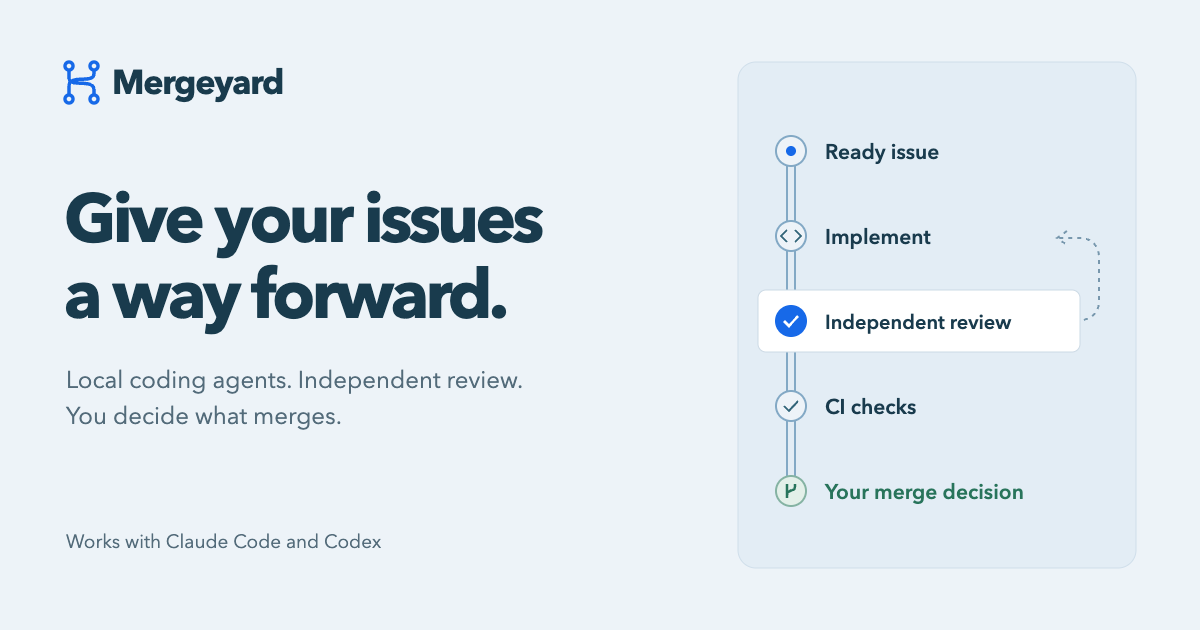
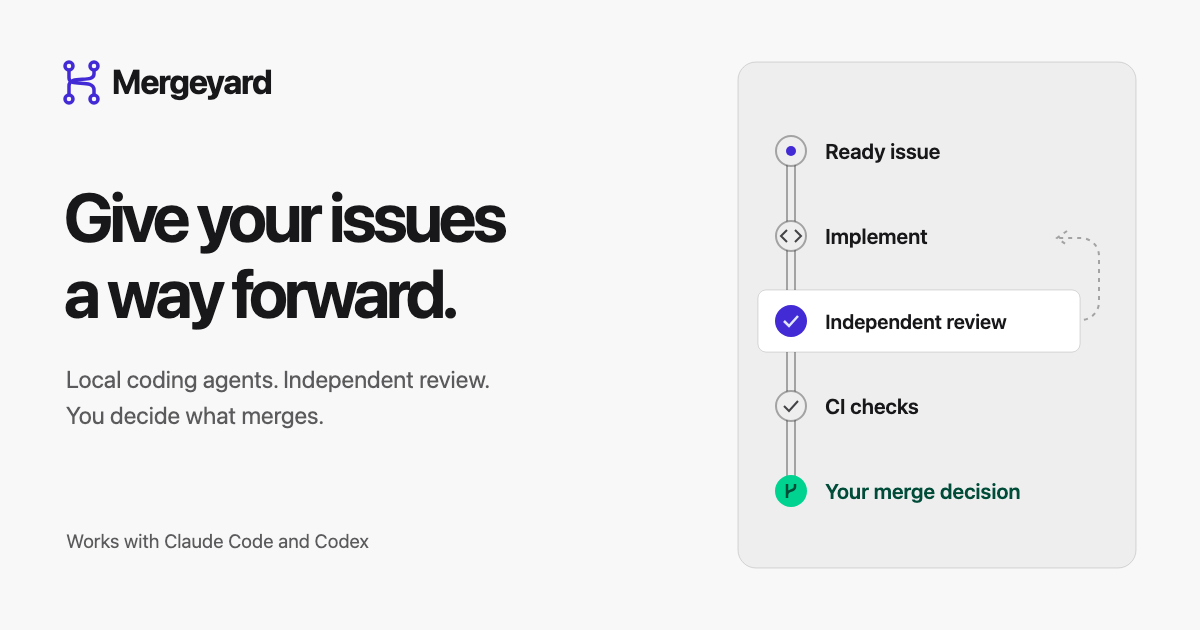
Match the website to the dashboard's daisyUI theme (#222) (#255)
* Match the website to the dashboard's daisyUI theme (#222)

The dashboard asset build now writes site/theme.css (the stock daisyUI light
and dark theme variables, switched by prefers-color-scheme) and the site's
copy of the theme-following favicon. The site's hand-written palette is
replaced by those variables, it uses the system font stacks, and the social
preview is redrawn in the light theme. CI's asset drift check covers the
generated site files.

* Drop a repeated docs note and a history-only test check (#222)

---------

diff --git a/site/style.css b/site/style.css
@@ -1,15 +1,12 @@
 :root {
-  color-scheme: light;
-  --ink: #193b4d;
-  --blue: #1769e8;
-  --paper: #edf3f8;
-  --white: #ffffff;
-  --muted: #536b7a;
-  --green: #28745b;
-  --line: #cddce7;
-  font-family: "Avenir Next", Avenir, "Segoe UI", sans-serif;
-  color: var(--ink);
-  background: var(--paper);
+  /* Colors come from the stock daisyUI themes in theme.css, generated by the
+     dashboard build; only mixes of those variables are derived here. */
+  --text-muted: color-mix(in oklab, var(--color-base-content) 70%, transparent);
+  --rule: color-mix(in oklab, var(--color-base-content) 15%, transparent);
+  --track: color-mix(in oklab, var(--color-base-content) 35%, transparent);
+  font-family: ui-sans-serif, system-ui, sans-serif, "Apple Color Emoji", "Segoe UI Emoji", "Segoe UI Symbol", "Noto Color Emoji";
+  color: var(--color-base-content);
+  background: var(--color-base-200);
   font-synthesis: none;
   line-height: 1.6;
 }
@@ -20,103 +17,103 @@ a { color: inherit; text-underline-offset: .22em; }
 button { font: inherit; }
 svg { display: block; fill: none; stroke: currentColor; stroke-width: 1.7; stroke-linecap: round; stroke-linejoin: round; }
 a, button { -webkit-tap-highlight-color: transparent; }
-:focus-visible { outline: 3px solid var(--blue); outline-offset: 5px; }
-::selection { background: #c9defd; color: var(--ink); }
+:focus-visible { outline: 3px solid var(--color-primary); outline-offset: 5px; }
+::selection { background: color-mix(in oklab, var(--color-primary) 25%, transparent); color: inherit; }
 h1, h2, h3, p { margin: 0; }
 h1, h2, h3 { line-height: 1.12; }
-code { font-family: "SFMono-Regular", Consolas, "Liberation Mono", monospace; font-size: .85em; overflow-wrap: anywhere; }
+code { font-family: ui-monospace, SFMono-Regular, Menlo, Monaco, Consolas, "Liberation Mono", "Courier New", monospace; font-size: .85em; overflow-wrap: anywhere; }
 .wrap { width: min(1264px, calc(100% - 112px)); margin-inline: auto; }
-.skip-link { position: absolute; top: -100px; left: 1rem; padding: .7rem 1rem; background: var(--white); z-index: 10; }
+.skip-link { position: absolute; top: -100px; left: 1rem; padding: .7rem 1rem; background: var(--color-base-100); z-index: 10; }
 .skip-link:focus { top: 1rem; }
 .masthead { display: flex; justify-content: space-between; align-items: center; gap: 24px; padding-block: 30px; }
 .wordmark { display: inline-flex; align-items: center; gap: 10px; font-size: 24px; font-weight: 750; letter-spacing: -1px; text-decoration: none; }
-.wordmark svg { width: 36px; height: 36px; color: var(--blue); stroke-width: 2.4; }
-.wordmark svg circle { fill: var(--paper); }
+.wordmark svg { width: 36px; height: 36px; color: var(--color-primary); stroke-width: 2.4; }
+.wordmark svg circle { fill: var(--color-base-200); }
 .masthead nav { display: flex; align-items: center; gap: 34px; font-size: 14px; font-weight: 600; }
 .masthead nav a { text-decoration: none; }
-.masthead nav a:hover, .text-link:hover, .footer a:hover { color: var(--blue); }
+.masthead nav a:hover, .text-link:hover, .footer a:hover { color: var(--color-primary); }
 .github-link { display: inline-flex; align-items: center; gap: 8px; }
 .github-link svg { width: 17px; height: 17px; }
 .hero { display: grid; grid-template-columns: 1.13fr 1fr; align-items: center; gap: 54px; padding-block: 70px 100px; }
-.intro { display: flex; align-items: center; gap: 9px; margin-bottom: 25px; color: var(--muted); font-size: 14px; font-weight: 550; }
-.local-dot { width: 7px; height: 7px; background: var(--green); border-radius: 50%; }
+.intro { display: flex; align-items: center; gap: 9px; margin-bottom: 25px; color: var(--text-muted); font-size: 14px; font-weight: 550; }
+.local-dot { width: 7px; height: 7px; background: var(--color-success); border-radius: 50%; }
 h1 { font-size: clamp(48px, 5.65vw, 82px); font-weight: 650; letter-spacing: -.065em; line-height: 1.04; }
-.hero-description { max-width: 42ch; margin-top: 28px; font-size: 18px; color: var(--muted); line-height: 1.7; }
+.hero-description { max-width: 42ch; margin-top: 28px; font-size: 18px; color: var(--text-muted); line-height: 1.7; }
 .hero-actions { display: flex; flex-wrap: wrap; align-items: center; gap: 28px; margin-top: 32px; }
 .button { display: inline-flex; justify-content: center; align-items: center; gap: 22px; min-height: 48px; padding: 12px 20px; border-radius: 6px; font-size: 15px; font-weight: 650; text-decoration: none; }
-.primary { color: var(--white); background: var(--blue); }
-.primary:hover { background: #0d54bd; }
+.primary { color: var(--color-primary-content); background: var(--color-primary); }
+.primary:hover { background: color-mix(in oklab, var(--color-primary) 88%, var(--color-base-content)); }
 .button svg { width: 18px; height: 18px; }
 .text-link { font-size: 14px; font-weight: 650; }
-.compatibility { margin-top: 35px; font-size: 12px; line-height: 1.9; color: var(--muted); }
-.compatibility strong { font-weight: 600; color: var(--ink); }
-.run-map { position: relative; background: #e3edf5; border: 1px solid #cfdeea; border-radius: 14px; padding: 24px 24px 18px; box-shadow: 0 18px 40px -32px #193b4d66; }
+.compatibility { margin-top: 35px; font-size: 12px; line-height: 1.9; color: var(--text-muted); }
+.compatibility strong { font-weight: 600; color: var(--color-base-content); }
+.run-map { position: relative; background: var(--color-base-300); border: 1px solid var(--rule); border-radius: 14px; padding: 24px 24px 18px; box-shadow: 0 18px 40px -32px color-mix(in oklab, var(--color-base-content) 40%, transparent); }
 .map-heading { display: flex; align-items: baseline; justify-content: space-between; gap: 12px; padding-bottom: 20px; }
 .map-heading h2 { font-size: 14px; font-weight: 650; letter-spacing: -.02em; }
-.map-heading > span { font-size: 10px; color: var(--muted); }
-.map-canvas { position: relative; background-image: radial-gradient(#b8cddd 1px, transparent 1px); background-size: 16px 16px; background-position: 8px 4px; }
-.track { position: absolute; left: 22px; top: 34px; bottom: 34px; width: 7px; border-inline: 2px solid #83a9c5; }
-.return-track { position: absolute; right: 10px; top: 71px; width: 90px; height: 160px; color: #7797ad; stroke-width: 1.7; }
+.map-heading > span { font-size: 10px; color: var(--text-muted); }
+.map-canvas { position: relative; background-image: radial-gradient(color-mix(in oklab, var(--color-base-content) 20%, transparent) 1px, transparent 1px); background-size: 16px 16px; background-position: 8px 4px; }
+.track { position: absolute; left: 22px; top: 34px; bottom: 34px; width: 7px; border-inline: 2px solid var(--track); }
+.return-track { position: absolute; right: 10px; top: 71px; width: 90px; height: 160px; color: var(--track); stroke-width: 1.7; }
 .return-line { stroke-dasharray: 4 5; }
-.loop-label { position: absolute; right: 0; top: 149px; background: #e3edf5; padding: 6px 2px; color: var(--muted); text-align: center; font-size: 10px; line-height: 1.35; }
+.loop-label { position: absolute; right: 0; top: 149px; background: var(--color-base-300); padding: 6px 2px; color: var(--text-muted); text-align: center; font-size: 10px; line-height: 1.35; }
 .stages { position: relative; list-style: none; margin: 0; padding: 0; }
 .stages li + li { margin-top: 8px; }
 .stage { position: relative; display: flex; align-items: center; gap: 15px; width: 100%; min-height: 68px; padding: 10px 12px 10px 6px; border: 1px solid transparent; border-radius: 8px; background: transparent; color: inherit; text-align: left; text-decoration: none; cursor: pointer; }
-.stage:hover { background: #f4f8fc; }
-.stage[aria-current="step"] { background: var(--white); border-color: #ccdae5; box-shadow: 0 3px 8px #193b4d08; }
+.stage:hover { background: color-mix(in oklab, var(--color-base-100) 60%, transparent); }
+.stage[aria-current="step"] { background: var(--color-base-100); border-color: var(--rule); box-shadow: 0 3px 8px color-mix(in oklab, var(--color-base-content) 5%, transparent); }
 .stages li:nth-child(2) .stage, .stages li:nth-child(3) .stage { width: calc(100% - 65px); }
-.station { display: grid; place-items: center; flex: 0 0 36px; width: 36px; height: 36px; background: #e3edf5; border: 1px solid #83a9c5; border-radius: 50%; color: #326579; }
+.station { display: grid; place-items: center; flex: 0 0 36px; width: 36px; height: 36px; background: var(--color-base-300); border: 1px solid var(--track); border-radius: 50%; color: color-mix(in oklab, var(--color-base-content) 80%, transparent); }
 .station svg { width: 21px; height: 21px; }
-.stage[aria-current="step"] .station { border-color: var(--blue); color: var(--white); background: var(--blue); }
+.stage[aria-current="step"] .station { border-color: var(--color-primary); color: var(--color-primary-content); background: var(--color-primary); }
 .stage-copy { display: flex; flex-direction: column; gap: 4px; }
 .stage-copy strong { font-size: 14px; font-weight: 650; line-height: 1.3; }
-.stage-copy > span { font-size: 11px; color: var(--muted); line-height: 1.4; }
-.stage-tag { margin-left: auto; font-size: 9px; font-weight: 650; padding: 3px 7px; border: 1px solid #bdd2e4; background: #dceaf6; border-radius: 10px; white-space: nowrap; }
-.stage-ready .station { color: var(--green); border-color: #85b3a3; background: #e3f0e9; }
-.your-call { margin-left: auto; font-size: 10px; color: var(--green); white-space: nowrap; }
-.map-detail { display: flex; align-items: flex-start; gap: 10px; border-top: 1px solid #c3d4e1; margin-top: 14px; padding-top: 15px; min-height: 83px; }
-.detail-marker { flex: 0 0 6px; width: 6px; height: 6px; background: var(--blue); border-radius: 50%; margin-top: 6px; }
-.map-detail p { color: #3e5d70; font-size: 12px; line-height: 1.6; max-width: 58ch; }
-.map-caption { margin-top: 9px; font-size: 10px; color: var(--muted); text-align: center; }
-.workflow-section { background: var(--white); padding-block: 84px; }
+.stage-copy > span { font-size: 11px; color: var(--text-muted); line-height: 1.4; }
+.stage-tag { margin-left: auto; font-size: 9px; font-weight: 650; padding: 3px 7px; border: 1px solid color-mix(in oklab, var(--color-primary) 30%, transparent); background: color-mix(in oklab, var(--color-primary) 10%, transparent); border-radius: 10px; white-space: nowrap; }
+.stage-ready .station { color: var(--color-success-content); border-color: var(--color-success); background: var(--color-success); }
+.your-call { margin-left: auto; font-size: 10px; font-weight: 650; padding: 2px 7px; border-radius: 10px; color: var(--color-success-content); background: var(--color-success); white-space: nowrap; }
+.map-detail { display: flex; align-items: flex-start; gap: 10px; border-top: 1px solid var(--rule); margin-top: 14px; padding-top: 15px; min-height: 83px; }
+.detail-marker { flex: 0 0 6px; width: 6px; height: 6px; background: var(--color-primary); border-radius: 50%; margin-top: 6px; }
+.map-detail p { color: color-mix(in oklab, var(--color-base-content) 85%, transparent); font-size: 12px; line-height: 1.6; max-width: 58ch; }
+.map-caption { margin-top: 9px; font-size: 10px; color: var(--text-muted); text-align: center; }
+.workflow-section { background: var(--color-base-100); padding-block: 84px; }
 .workflow-layout { display: grid; grid-template-columns: 1fr 1.15fr; gap: 100px; }
-.section-kicker { font-size: 13px; color: var(--muted); margin-bottom: 20px; }
+.section-kicker { font-size: 13px; color: var(--text-muted); margin-bottom: 20px; }
 h2 { font-size: clamp(34px, 3.2vw, 46px); font-weight: 600; letter-spacing: -.045em; }
-.section-intro > p:not(.section-kicker) { max-width: 34ch; color: var(--muted); margin-top: 24px; font-size: 16px; }
+.section-intro > p:not(.section-kicker) { max-width: 34ch; color: var(--text-muted); margin-top: 24px; font-size: 16px; }
 .section-intro > a { display: inline-block; margin-top: 24px; }
 .workflow-notes { display: grid; gap: 27px; }
 .workflow-notes article { scroll-margin-top: 28px; }
 .workflow-notes h3 { font-size: 19px; font-weight: 600; letter-spacing: -.02em; }
-.workflow-notes p { color: var(--muted); font-size: 14px; margin-top: 9px; max-width: 61ch; }
-.workflow-notes code { color: #245779; background: var(--paper); padding: 2px 4px; border-radius: 3px; }
+.workflow-notes p { color: var(--text-muted); font-size: 14px; margin-top: 9px; max-width: 61ch; }
+.workflow-notes code { color: var(--color-base-content); background: var(--color-base-300); padding: 2px 4px; border-radius: 3px; }
 .setup-section { padding-block: 86px 68px; }
 .setup-heading { display: flex; align-items: flex-end; justify-content: space-between; gap: 60px; margin-bottom: 40px; }
-.setup-heading > p { max-width: 37ch; font-size: 15px; color: var(--muted); }
+.setup-heading > p { max-width: 37ch; font-size: 15px; color: var(--text-muted); }
 .setup-layout { display: grid; grid-template-columns: .9fr 1.1fr; gap: 72px; align-items: start; }
 .setup-instructions h3 { font-size: 20px; font-weight: 600; letter-spacing: -.02em; }
-.setup-instructions p { color: var(--muted); font-size: 14px; margin-top: 15px; max-width: 56ch; }
+.setup-instructions p { color: var(--text-muted); font-size: 14px; margin-top: 15px; max-width: 56ch; }
 .setup-instructions .setup-next { margin-bottom: 20px; }
-.terminal { color: #d9e5ee; background: var(--ink); border-radius: 8px; overflow: hidden; min-width: 0; }
-.terminal-heading { display: flex; align-items: center; justify-content: space-between; gap: 12px; padding: 13px 22px; font-size: 12px; border-bottom: 1px solid #375666; }
-.copy-button { cursor: pointer; border: 1px solid #7290a2; background: transparent; border-radius: 4px; padding: 5px 9px; color: #edf3f8; font-size: 11px; }
-.copy-button:hover { background: #2b5065; }
-.copy-button:focus-visible { outline-color: #b9d7ff; }
+.terminal { color: var(--color-neutral-content); background: var(--color-neutral); border-radius: 8px; overflow: hidden; min-width: 0; }
+.terminal-heading { display: flex; align-items: center; justify-content: space-between; gap: 12px; padding: 13px 22px; font-size: 12px; border-bottom: 1px solid color-mix(in oklab, var(--color-neutral-content) 20%, transparent); }
+.copy-button { cursor: pointer; border: 1px solid color-mix(in oklab, var(--color-neutral-content) 50%, transparent); background: transparent; border-radius: 4px; padding: 5px 9px; color: var(--color-neutral-content); font-size: 11px; }
+.copy-button:hover { background: color-mix(in oklab, var(--color-neutral-content) 15%, transparent); }
+.copy-button:focus-visible { outline-color: var(--color-neutral-content); }
 .terminal pre { font-size: 13px; line-height: 1.9; overflow-x: auto; margin: 0; padding: 24px; }
 .terminal code { font-size: inherit; overflow-wrap: normal; }
-.copy-status { padding-inline: 24px; color: #bddfce; font-size: 12px; }
+.copy-status { padding-inline: 24px; color: var(--color-success); font-size: 12px; }
 .copy-status:not(:empty) { padding-bottom: 16px; }
-.permission-note { margin-top: 30px; padding-left: 15px; border-left: 2px solid #a6bdcf; font-size: 12px; color: var(--muted); max-width: 95ch; }
-.docs-section { border-top: 1px solid var(--line); padding-block: 45px 62px; }
+.permission-note { margin-top: 30px; padding-left: 15px; border-left: 2px solid var(--track); font-size: 12px; color: var(--text-muted); max-width: 95ch; }
+.docs-section { border-top: 1px solid var(--rule); padding-block: 45px 62px; }
 .docs-section h2 { font-size: 26px; }
 .docs-links { display: grid; grid-template-columns: repeat(3, 1fr); gap: 35px; margin-top: 28px; }
 .docs-links a { display: flex; flex-direction: column; gap: 6px; text-decoration: none; }
-.docs-links a:hover strong { color: var(--blue); text-decoration: underline; text-underline-offset: .2em; }
+.docs-links a:hover strong { color: var(--color-primary); text-decoration: underline; text-underline-offset: .2em; }
 .docs-links strong { font-size: 14px; font-weight: 650; }
-.docs-links span { color: var(--muted); font-size: 12px; }
-.footer { border-top: 1px solid var(--line); padding-block: 25px 35px; }
+.docs-links span { color: var(--text-muted); font-size: 12px; }
+.footer { border-top: 1px solid var(--rule); padding-block: 25px 35px; }
 .footer-row { display: flex; flex-wrap: wrap; align-items: baseline; gap: 16px 24px; }
 .footer .wordmark { font-size: 19px; letter-spacing: -.6px; }
-.footer p, .footer-links { color: var(--muted); font-size: 12px; }
+.footer p, .footer-links { color: var(--text-muted); font-size: 12px; }
 .footer-links { display: flex; flex-wrap: wrap; gap: 12px 20px; margin-left: auto; }
 .footer-made { margin-top: 20px; }
 @media (min-width: 1500px) { .hero { gap: 90px; } }

diff --git a/site/theme.css b/site/theme.css
@@ -1,0 +1,3 @@
+/* Generated by web/build.mjs from daisyUI's stock themes; do not edit. */
+:root{color-scheme:light;--color-base-100:oklch(100% 0 0);--color-base-200:oklch(98% 0 0);--color-base-300:oklch(95% 0 0);--color-base-content:oklch(21% 0.006 285.885);--color-primary:oklch(45% 0.24 277.023);--color-primary-content:oklch(93% 0.034 272.788);--color-secondary:oklch(65% 0.241 354.308);--color-secondary-content:oklch(94% 0.028 342.258);--color-accent:oklch(77% 0.152 181.912);--color-accent-content:oklch(38% 0.063 188.416);--color-neutral:oklch(14% 0.005 285.823);--color-neutral-content:oklch(92% 0.004 286.32);--color-info:oklch(74% 0.16 232.661);--color-info-content:oklch(29% 0.066 243.157);--color-success:oklch(76% 0.177 163.223);--color-success-content:oklch(37% 0.077 168.94);--color-warning:oklch(82% 0.189 84.429);--color-warning-content:oklch(41% 0.112 45.904);--color-error:oklch(71% 0.194 13.428);--color-error-content:oklch(27% 0.105 12.094);--radius-selector:0.5rem;--radius-field:0.25rem;--radius-box:0.5rem;--size-selector:0.25rem;--size-field:0.25rem;--border:1px;--depth:1;--noise:0;}
+@media (prefers-color-scheme: dark){:root{color-scheme:dark;--color-base-100:oklch(25.33% 0.016 252.42);--color-base-200:oklch(23.26% 0.014 253.1);--color-base-300:oklch(21.15% 0.012 254.09);--color-base-content:oklch(97.807% 0.029 256.847);--color-primary:oklch(58% 0.233 277.117);--color-primary-content:oklch(96% 0.018 272.314);--color-secondary:oklch(65% 0.241 354.308);--color-secondary-content:oklch(94% 0.028 342.258);--color-accent:oklch(77% 0.152 181.912);--color-accent-content:oklch(38% 0.063 188.416);--color-neutral:oklch(14% 0.005 285.823);--color-neutral-content:oklch(92% 0.004 286.32);--color-info:oklch(74% 0.16 232.661);--color-info-content:oklch(29% 0.066 243.157);--color-success:oklch(76% 0.177 163.223);--color-success-content:oklch(37% 0.077 168.94);--color-warning:oklch(82% 0.189 84.429);--color-warning-content:oklch(41% 0.112 45.904);--color-error:oklch(71% 0.194 13.428);--color-error-content:oklch(27% 0.105 12.094);--radius-selector:0.5rem;--radius-field:0.25rem;--radius-box:0.5rem;--size-selector:0.25rem;--size-field:0.25rem;--border:1px;--depth:1;--noise:0;}}

diff --git a/site/index.html b/site/index.html
@@ -3,7 +3,7 @@
   <head>
     <meta charset="utf-8">
     <meta name="viewport" content="width=device-width, initial-scale=1">
-    <meta name="theme-color" content="#edf3f8">
+    <meta name="color-scheme" content="light dark">
     <title>Mergeyard — Local coding agent orchestration for GitHub</title>
     <meta name="description" content="Turn approved GitHub issues into reviewed pull requests with Claude Code or Codex. Mergeyard coordinates agents, fixes, and CI locally. You decide what merges.">
     <meta name="author" content="Rafael Passos">
@@ -26,6 +26,7 @@
     <meta name="twitter:image" content="https://rcpassos.github.io/mergeyard/social-preview.png">
     <meta name="twitter:image:alt" content="Mergeyard: Give your issues a way forward. A workflow connects a ready GitHub issue to implementation, independent review, CI checks, and your merge decision.">
     <link rel="icon" href="./favicon.svg" type="image/svg+xml">
+    <link rel="stylesheet" href="./theme.css">
     <link rel="stylesheet" href="./style.css">
     <script type="application/ld+json">
       {

diff --git a/web/site_test.go b/web/site_test.go
@@ -1,0 +1,67 @@
+package webassets
+
+import (
+	"os"
+	"regexp"
+	"strings"
+	"testing"
+)
+
+// The public website shares the dashboard's stock daisyUI themes through a
+// stylesheet the asset build writes into site/.
+func TestWebsiteUsesGeneratedTheme(t *testing.T) {
+	read := func(name string) string {
+		t.Helper()
+		data, err := os.ReadFile(name)
+		if err != nil {
+			t.Fatal(err)
+		}
+		return string(data)
+	}
+
+	theme := read("../site/theme.css")
+	lightPrimary := regexp.MustCompile(`(?m)^:root\{[^}]*--color-primary:([^;]+);`).FindStringSubmatch(theme)
+	if lightPrimary == nil {
+		t.Fatalf("site/theme.css does not set the light primary on :root; rebuild the assets:\n%s", theme)
+	}
+	if !strings.Contains(theme, "@media (prefers-color-scheme: dark){:root{") {
+		t.Errorf("site/theme.css has no dark theme for the system preference; rebuild the assets:\n%s", theme)
+	}
+
+	page := read("../site/index.html")
+	themeLink := strings.Index(page, `<link rel="stylesheet" href="./theme.css">`)
+	styleLink := strings.Index(page, `<link rel="stylesheet" href="./style.css">`)
+	if themeLink < 0 || styleLink < themeLink {
+		t.Error("site/index.html does not load theme.css before style.css")
+	}
+	if match := regexp.MustCompile(`(?:href|src)="(?:https?:)?//[^"]+\.(?:css|js|woff2?|ttf|otf)"`).FindString(page); match != "" {
+		t.Errorf("site/index.html loads an external asset: %s", match)
+	}
+
+	style := read("../site/style.css")
+	for name, pattern := range map[string]string{
+		"hex color":              `#[0-9a-fA-F]{3,8}\b`,
+		"color function":         `\b(rgba?|hsla?|oklch|oklab|lab|lch|color)\(`,
+		"named color":            `:\s*(?:white|black)\b`,
+		"daisyUI color override": `--color-[\w-]+\s*:`,
+		"font file":              `@font-face`,
+	} {
+		if match := regexp.MustCompile(pattern).FindString(style); match != "" {
+			t.Errorf("site/style.css has a custom %s: %q", name, match)
+		}
+	}
+	for _, stack := range []string{"font-family: ui-sans-serif, system-ui,", "font-family: ui-monospace,"} {
+		if !strings.Contains(style, stack) {
+			t.Errorf("site/style.css does not use the system font stack %q", stack)
+		}
+	}
+
+	if read("../site/favicon.svg") != read("static/favicon.svg") {
+		t.Error("site/favicon.svg differs from the dashboard favicon; rebuild the assets")
+	}
+
+	preview := read("../site/social-preview.svg")
+	if !strings.Contains(preview, lightPrimary[1]) {
+		t.Errorf("site/social-preview.svg is not drawn in the light primary %s", lightPrimary[1])
+	}
+}

diff --git a/docs/website.md b/docs/website.md
@@ -4,6 +4,21 @@ The public landing page lives in `site/`, separate from the embedded local
 dashboard in `web/`. It is plain HTML, CSS, JavaScript, and SVG, with no build
 step, external fonts, analytics, or runtime dependencies.
 
+## Theme
+
+The site shares the dashboard's stock daisyUI `light` and `dark` themes and
+follows the OS preference; there is no manual toggle. `site/theme.css` holds
+only those theme variables, switched by `prefers-color-scheme`. The dashboard
+asset build (`make assets`, or `npm run build` in `web/`) writes it from the
+same daisyUI version the dashboard uses, along with `site/favicon.svg`, the
+dashboard's theme-following favicon. Both files are generated and committed;
+do not edit them by hand. CI rebuilds them and fails when the committed copies
+differ, so after a daisyUI upgrade commit the regenerated files with it.
+
+`site/style.css` is hand-written layout CSS. It sets no colors of its own: it
+uses the theme variables, or `color-mix()` blends of them for muted text and
+rules. Text uses the system sans and monospace stacks; there are no font files.
+
 ## Preview
 
 From the repository root:
@@ -45,7 +60,8 @@ external GitHub documentation are not separate pages in this sitemap. No
 synthetic modification dates are published.
 
 The sharing image is `site/social-preview.png` (1200 × 630), with an editable
-source in `site/social-preview.svg`. After editing the SVG, export it to PNG at
+source in `site/social-preview.svg`, drawn in the light theme's colors with its
+primary as the accent. After editing the SVG, export it to PNG at
 its intrinsic size and visually verify the result. The SVG can be opened in a
 browser and the root SVG captured at a 1200 × 630 viewport, device scale 1.
 The PNG is committed; deployment needs no image renderer or build dependency.

diff --git a/docs/web.md b/docs/web.md
@@ -138,7 +138,8 @@ events, and on discovery notifications for the visible queue or settings page.
 Run `make assets` to install the versions locked in `web/package-lock.json`
 and build Tailwind/daisyUI CSS, HTMX, Lucide SVGs, and the dashboard script.
 `make build` rebuilds assets before compiling Go. CI uses Node 24 for this step.
-Commit the generated `web/static/` files together with source changes.
+Commit the generated `web/static/` files, `site/theme.css` and `site/favicon.svg`
+together with source changes.
 
 Templates and generated assets are embedded in Go. `go build ./cmd/mergeyard`
 works directly from a checkout without Node, using the committed assets. The
@@ -155,7 +156,9 @@ approved notes; the `outcomeAlert` template helper maps reported outcomes
 (criteria verdicts, finding severities, check states) to those variants.
 Page sections are daisyUI cards; messages inside them are alerts. The build
 writes `web/static/favicon.svg`, the public site's mark drawn in each theme's
-primary color behind a `prefers-color-scheme` query.
+primary color behind a `prefers-color-scheme` query. It also writes the public
+website's copy of that favicon and `site/theme.css`, the same themes' variables
+for the build-free site (see [the website doc](website.md#theme)).
 
 `web/templates/layout.html` holds the page shell and the page switch. Each
 page has its own file under `web/templates/pages/`, and markup shared between

diff --git a/README.md b/README.md
@@ -149,7 +149,8 @@ make lint   # gofmt, go vet, and an unused-code check
 make build  # rebuild dashboard assets with Node.js 24, then compile Go
 ```
 
-Commit generated `web/static/` files with dashboard source changes.
+Commit generated `web/static/` files, `site/theme.css` and `site/favicon.svg`
+with dashboard source changes.
 
 `make lint` also runs the pinned Staticcheck unused-code check (`U1000`), so code
 left behind by a change fails lint instead of accumulating. It downloads Staticcheck
